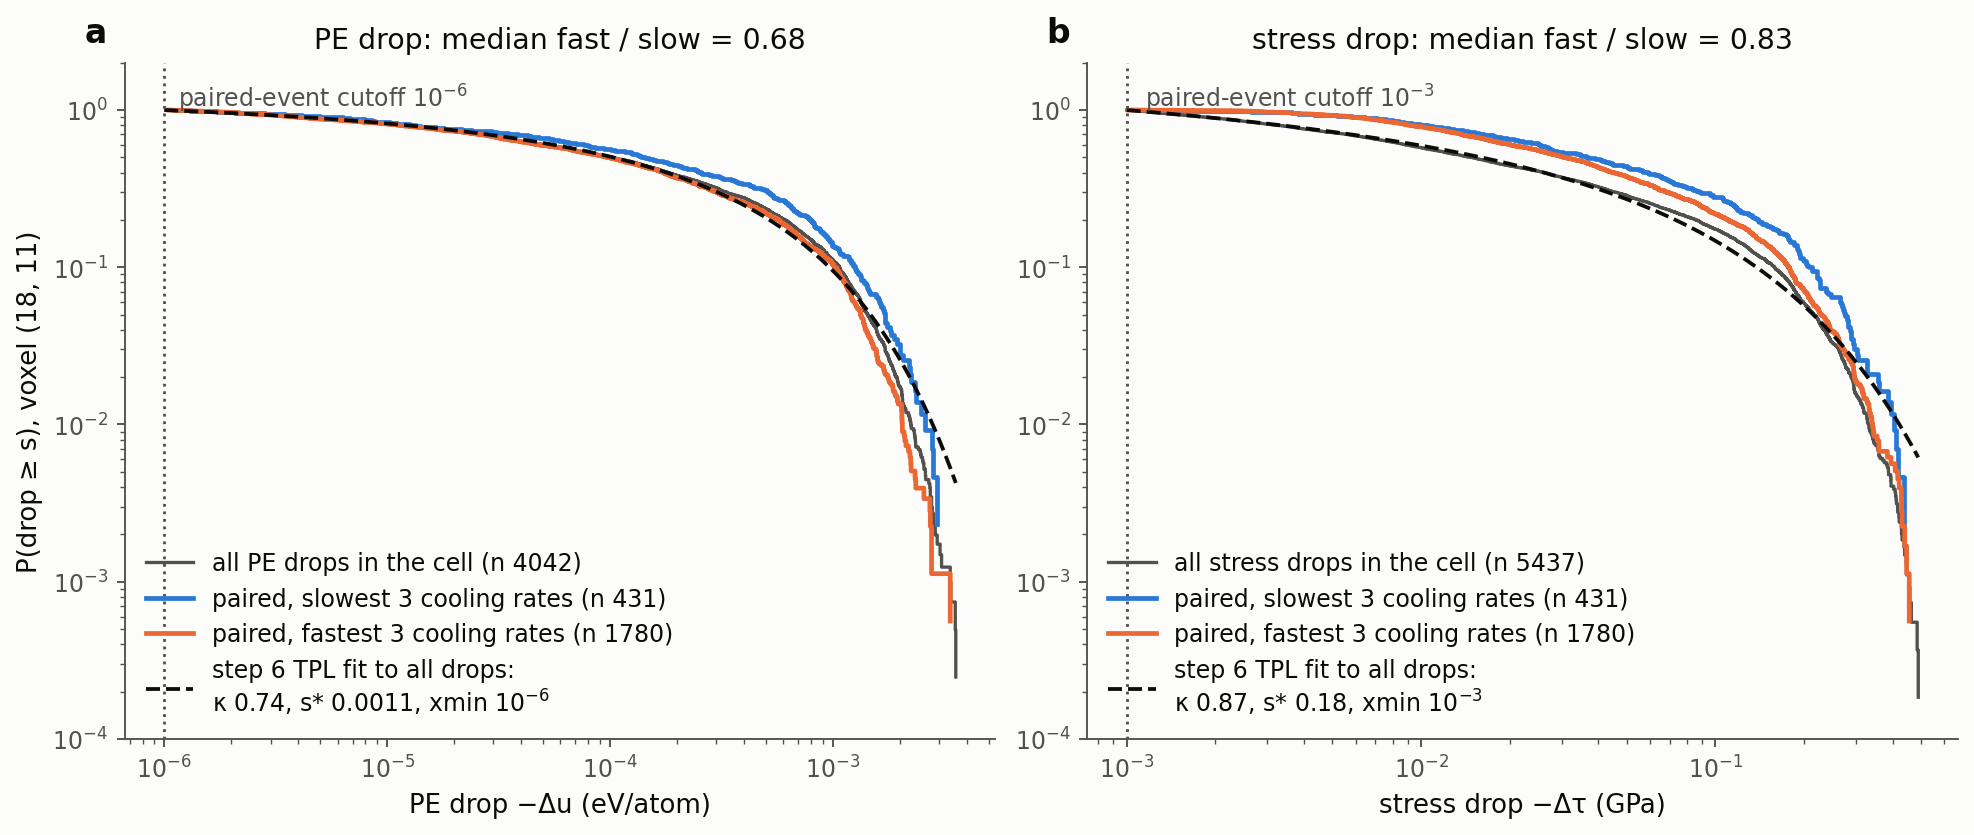
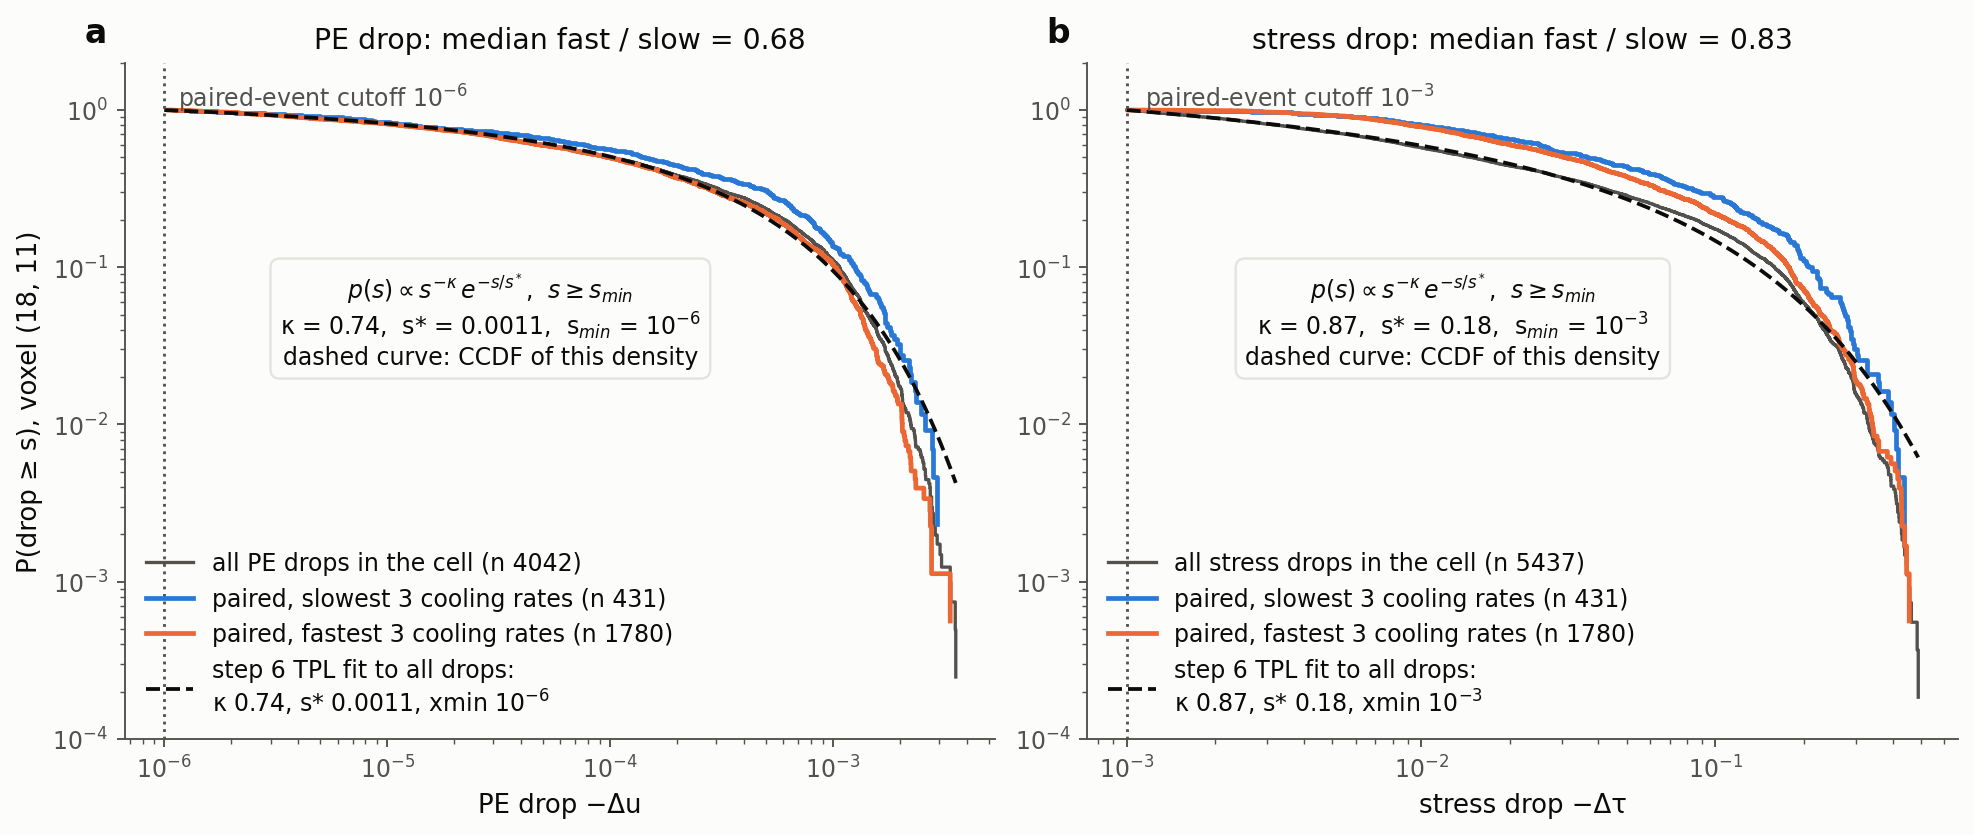
copula_shapes, copula_marginals: drop units, rename copula args to U, V, add TPL form
- Axis labels without units (PE drop -du, stress drop -dtau) until units are confirmed.
- Gumbel box: C(U, V) with U, V = ranks of the PE and stress drops; moved clear of the contours.
- Marginals: box with p(s) ~ s^-kappa exp(-s/s*), s >= s_min and the panel's step 6 values.

diff --git a/11c_benchmark_figure.py b/11c_benchmark_figure.py
@@ -285,9 +285,10 @@ def raw_figure():
             params = copulas.fit_family(name, u_all, v_all)['params']
             ln_c = copulas.log_density(name, params, FU, GV)
             theta = float(np.ravel(params)[0])
-            ax.text(0.03, 0.97,'$C(u,v)=\\exp\\{-[(-\\ln u)^{\\theta}+(-\\ln v)^{\\theta}]^{1/\\theta}\\}$\n'
-                    'fitted θ = %.2f  (Kendall τ$_K$ = 1 − 1/θ = %.2f)' % (theta, 1 - 1 / theta),
-                    transform=ax.transAxes, ha='left', va='top', fontsize=10.5, color=fs.INK,
+            ax.text(0.02, 0.98, '$C(U,V)=\\exp\\{-[(-\\ln U)^{\\theta}+(-\\ln V)^{\\theta}]^{1/\\theta}\\}$\n'
+                    'U, V = ranks of the PE and stress drops\n'
+                    'fitted θ = %.2f  (τ$_K$ = %.2f)' % (theta, 1 - 1 / theta),
+                    transform=ax.transAxes, ha='left', va='top', fontsize=10, color=fs.INK,
                     bbox=dict(boxstyle='round,pad=0.4', fc=fs.SURFACE, ec=fs.GRID))
         dens = np.exp(ln_c) * f[None, :] * g[:, None]
         print('%s: max raw density %.2f per decade²' % (name, dens.max()))
@@ -297,9 +298,9 @@ def raw_figure():
         ax.clabel(cs, fmt='%g', fontsize=10)
         ax.set_xscale('log'); ax.set_yscale('log')
         ax.set_title(FAMILY_LABEL[name] if name == 'kernel' else 'Gumbel')
-        ax.set_xlabel('PE drop −Δu (eV/atom)')
+        ax.set_xlabel('PE drop −Δu')
         fs.letter(ax, key)
-    axes[0].set_ylabel('stress drop −Δτ (GPa)')
+    axes[0].set_ylabel('stress drop −Δτ')
     cb = fig.colorbar(im, ax=list(axes), shrink=0.8, extend='both')
     cb.set_label('%d paired events, density per decade²\norange contours: model, same units' % len(x))
     fs.save(fig, 'copula_shapes')
@@ -315,8 +316,8 @@ table = np.load('out/marginal_table.npz')
 thirds = ri // 3                                      # 0 = slowest three of the nine rates, 2 = fastest
 fig, axes = plt.subplots(1, 2, figsize=(11.5, 4.8), constrained_layout=True)
 for ax, key, signed, paired, name, xlabel in (
-        (axes[0], 'pe', du, x, 'PE', 'PE drop −Δu (eV/atom)'),
-        (axes[1], 'stress', dtau, y, 'stress', 'stress drop −Δτ (GPa)')):
+        (axes[0], 'pe', du, x, 'PE', 'PE drop −Δu'),
+        (axes[1], 'stress', dtau, y, 'stress', 'stress drop −Δτ')):
     cut = xmin[key]
     cut_text = r'$10^{%d}$' % round(np.log10(cut))
     own = -signed[(events['cell'] == c) & (signed < 0) & (-signed >= cut)]
@@ -333,6 +334,10 @@ for ax, key, signed, paired, name, xlabel in (
             label='step 6 TPL fit to all drops:\nκ %.2f, s* %.2g, xmin %s' % (kappa, s_star, cut_text))
     ax.axvline(cut, color=fs.INK_2, ls=':', lw=1.2)
     ax.text(cut * 1.15, 1.5, 'paired-event cutoff %s' % cut_text, fontsize=10, color=fs.INK_2, va='top')
+    ax.text(0.42, 0.62, '$p(s) \\propto s^{-\\kappa}\\, e^{-s/s^*}$,  $s \\geq s_{min}$\n'
+            'κ = %.2f,  s* = %.2g,  s$_{min}$ = %s\ndashed curve: CCDF of this density' % (kappa, s_star, cut_text),
+            transform=ax.transAxes, ha='center', va='center', fontsize=10, color=fs.INK,
+            bbox=dict(boxstyle='round,pad=0.4', fc=fs.SURFACE, ec=fs.GRID))
     ratio = np.median(paired[thirds == 2]) / np.median(paired[thirds == 0])
     ax.set_title('%s drop: median fast / slow = %.2f' % (name, ratio))
     ax.set_xscale('log'); ax.set_yscale('log'); ax.set_ylim(1e-4, 2)
